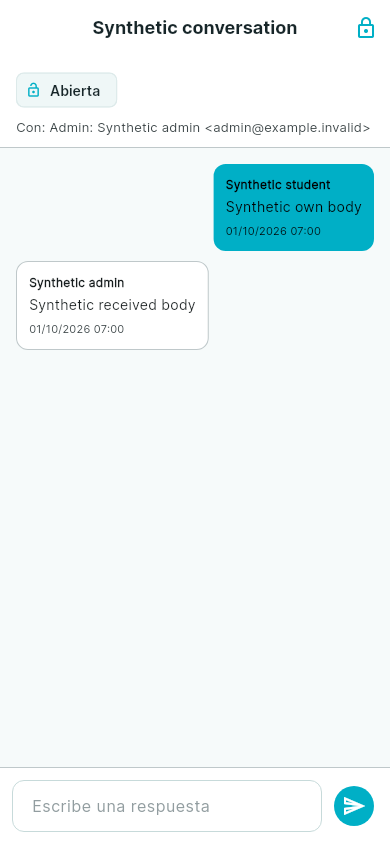
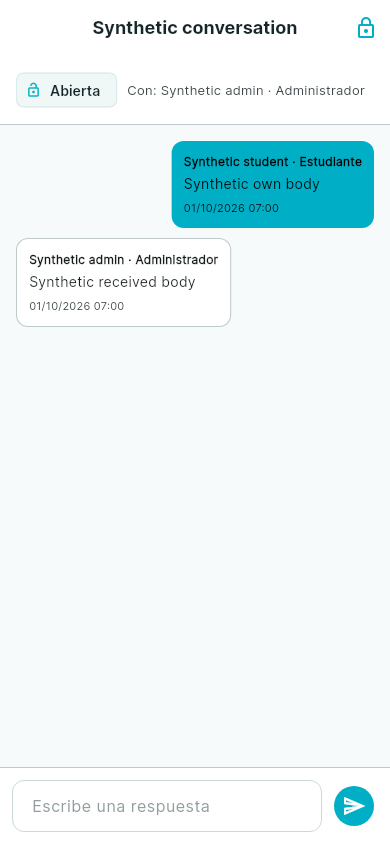
fix(notifications): preserve reminder push compatibility

diff --git a/frontend-next/src/components/__tests__/phase5a-communications.test.tsx b/frontend-next/src/components/__tests__/phase5a-communications.test.tsx
@@ -28,7 +28,7 @@ it('keeps failed read synchronization visible through retry and recovers only on
 it.each(['student','admin','app_admin'] as const)('%s creates with the authorized recipient contract',async role=>{
  useAuthStore.setState({role});mount(<CommunicationsPage />);fireEvent.click(screen.getByText('Nuevo mensaje'));
  fireEvent.change(screen.getByLabelText(role==='admin'?'Buscar estudiante':'Buscar administrador'),{target:{value:'Syn'}});
- fireEvent.click(await screen.findByText('Synthetic recipient'));
+ fireEvent.click(await screen.findByText('Synthetic recipient · Administrador'));
  fireEvent.change(screen.getByLabelText('Asunto'),{target:{value:'Synthetic subject'}});
  fireEvent.change(screen.getByLabelText('Mensaje'),{target:{value:'Synthetic message'}});
  fireEvent.click(screen.getByText('Enviar'));
@@ -39,7 +39,7 @@ it.each(['student','admin','app_admin'] as const)('%s creates with the authorize
 it('normal admin can select app administrator, never forges student scope',async()=>{
  useAuthStore.setState({role:'admin'});mount(<CommunicationsPage />);fireEvent.click(screen.getByText('Nuevo mensaje'));
  fireEvent.change(screen.getByLabelText('Destinatario'),{target:{value:'admins'}});fireEvent.change(screen.getByLabelText('Buscar administrador'),{target:{value:'Syn'}});
- await screen.findByText('Synthetic recipient');expect(searchRecipients).toHaveBeenCalledWith('admins','Syn');
+ await screen.findByText('Synthetic recipient · Administrador');expect(searchRecipients).toHaveBeenCalledWith('admins','Syn');
 });
 it.each(['open','closed'] as const)('%s thread has explicit close/reopen confirmation and reply',async status=>{
  useAuthStore.setState({role:'admin',userId:'admin'});

diff --git a/backend/tests/test_vaccine_due_email.py b/backend/tests/test_vaccine_due_email.py
@@ -3,6 +3,8 @@ from datetime import date, timedelta
 
 import pytest
 from app.core.config import settings
+from app.modules.notifications.repository import NotificationRepository
+from app.modules.notifications.service import NotificationService
 from app.modules.notifications.router import _verify_cron_secret
 from app.modules.notifications.vaccine_due import _create_reminder_if_needed
 from app.modules.users.models import User
@@ -20,6 +22,17 @@ def _due_info(days_until_due: int) -> DoseDueInfo:
         due_date=date.today() + timedelta(days=days_until_due),
         days_until_due=days_until_due,
     )
+
+
+@pytest.mark.asyncio
+async def test_vaccine_reminder_legacy_push_call_remains_compatible(
+    db: AsyncSession,
+    student_user: User,
+    monkeypatch: pytest.MonkeyPatch,
+):
+    monkeypatch.setattr(settings, "FCM_ENABLED", False)
+
+    NotificationService(NotificationRepository(db))._send_push_after_commit(student_user.id)
 
 
 @pytest.mark.asyncio

diff --git a/backend/app/modules/notifications/service.py b/backend/app/modules/notifications/service.py
@@ -89,9 +89,9 @@ class NotificationService:
         self,
         user_id: uuid.UUID,
         *,
-        title: str,
-        body: str,
-        use_message_copy: bool,
+        title: str = "ImmunoClinic",
+        body: str = "Tienes una actualización. Abre la aplicación para consultarla.",
+        use_message_copy: bool = False,
     ) -> None:
         if not settings.FCM_ENABLED:
             return
